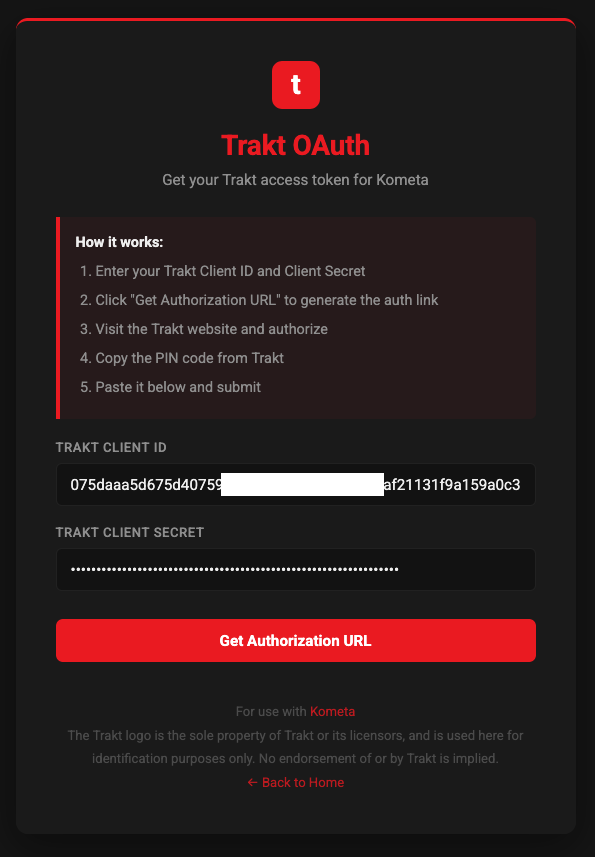
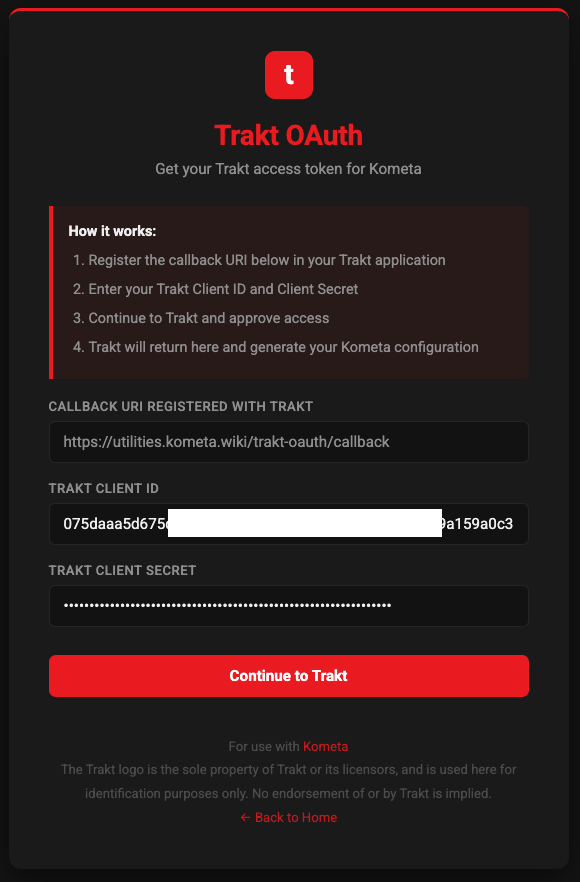
Update Trakt auth process

diff --git a/docs/config/trakt.md b/docs/config/trakt.md
@@ -8,7 +8,13 @@ hide:
 
 Configuring [Trakt.tv](https://trakt.tv/) is optional but is required for Trakt based collections to function. 
 
-The `trakt` attribute is found at the root of the config file.  Some of these are filled in by you, others are filled in by Trakt:
+
+???+ warning
+
+    Using Trakt meaningfully with Kometa probably requires a Trakt VIP account, since Trakt has limited free accounts to having a single external application connected.  This means that if you connect Kometa to Trakt, you can't use Trakt with any other application like MDBList, and vice versa, if you connect Trakt to any other applicaiton, you can't connect it to Kometa.
+
+
+The `trakt` attribute is found at the root of the config file.
 
 Kometa will keep these credentials up-to-date; they expire in 24 hours and will need to be renewed.
 
@@ -41,58 +47,16 @@ trakt:
 | `pin`           | Trakt PIN.                        | PIN string or leave **blank**        |  :fontawesome-solid-circle-xmark:{ .red }  |
 | `force_refresh` | Refresh credentials on every run. | 'true' or 'false'                    |  :fontawesome-solid-circle-xmark:{ .red }  |
 
-*All other attributes will be filled in by Kometa as part of the authentication process*
+*All other attributes will be filled in as part of the authentication process*
 
-### Authenticating outside Kometa
+### Authenticating Trakt
 
-The simplest and preferred way to authenticate against Trakt is the [Kometa Utilities](./authentication.md).
-
-If you want to do this manually, read on.
-
-### Important Note on "Authentication Process":
-
-The Trakt authentication process is interactive; Kometa will display a URL in the console output and then wait for you to visit that URL in order to grant access and then paste in some additional information.  In order for this to happen you need to run Kometa in an interactive mode, which can be fussy in some contexts (e.g., running Kometa in a Docker container on a NAS).  For this reason, it is far simpler to use the form down below to perform these steps; it does all the same steps, but takes them out of the Kometa script execution.  The form will produce a complete authentication block as shown above ready for you to copy-paste into your `config.yml`.
-
-## Trakt Authentication
-
-You can complete the trakt authentication interactively during the config run, or you can complete it outside of Kometa and paste in the resulting `trakt` attribute.
-
-### Common activities:
-
-To connect to Trakt.tv you must create a Trakt application and supply Kometa the `client_id`,`client_secret`, and `pin` provided, please do the following:
+To connect to Trakt.tv you must create a Trakt application:
 
 1. [Click here to create a Trakt API application.](https://trakt.tv/oauth/applications/new)
 2. Enter a `Name` for the application.
-3. Enter `urn:ietf:wg:oauth:2.0:oob` for `Redirect uri`.
+3. Enter `https://utilities.kometa.wiki/trakt-oauth/callback` for `Redirect uri`.
 4. Click the `SAVE APP` button.
 5. Record the `Client ID` and `Client Secret`; you will need them in a moment.
-6. Click the Green Authorize Button next to the Redirect URI.
 
-    ![Trakt Authorize](../assets/images/config/trakt.png)
-
-7. Record the `PIN`; you will need it in a moment.
-
-???+ warning
-
-    Run Kometa shortly after obtaining your PIN; the PIN may expire at some point.
-
-### Authenticating during the Kometa run
-
-1. Add the `Client ID` and `Client Secret` as `client_id` and `client_secret` to your Configuration File.
-2. Add the `PIN` as `pin` in your Configuration File.
-
-    ```yaml title="config.yml Trakt sample"
-    trakt:
-      client_id: 1a2b3c4d5e6f7g8h9i     ## HERE
-      client_secret: 1a12b23c34d45e56f6 ## HERE
-      pin: 12345                        ## HERE
-      force_refresh: false
-      authorization:
-        access_token:
-        token_type:
-        expires_in:
-        refresh_token:
-        scope:
-        created_at:
-    ```
-3. Run Kometa within ten minutes of creating the PIN
+Now authenticate against Trakt using the [Kometa Utilities](./authentication.md).

diff --git a/docs/config/authentication.md b/docs/config/authentication.md
@@ -40,19 +40,15 @@ There is no logging, but if you feel more comfortable running these things local
 
         ![Step 1](./../assets/images/utilities/trakt-oauth-01.png)
 
-    2. Click "Get Authentication URL".  This will fill in the auth URL:
+    2. Click "Continue to Trakt".
 
-        ![Step 2](./../assets/images/utilities/trakt-oauth-02.png)
+        Follow any instructions you see on the Trakt site.
 
-        Click "Open URL" and follow any instructions given.  You will be given a PIN on the Trakt site.
+        You will be returned to the Kometa Utilities site.
 
-    3. Paste that PIN into the field and click "Submit":
+    3. A Kometa Trakt authentication block will be displayed.
 
-        ![Step 3](./../assets/images/utilities/trakt-oauth-03.png)
-
-    4. A Kometa Trakt authentication block will be displayed.
-
-        ![Step 4](./../assets/images/utilities/trakt-oauth-04.png)
+        ![Step 4](./../assets/images/utilities/trakt-oauth-03.png)
 
         Copy that block to your Kometa `config.yml`
 
